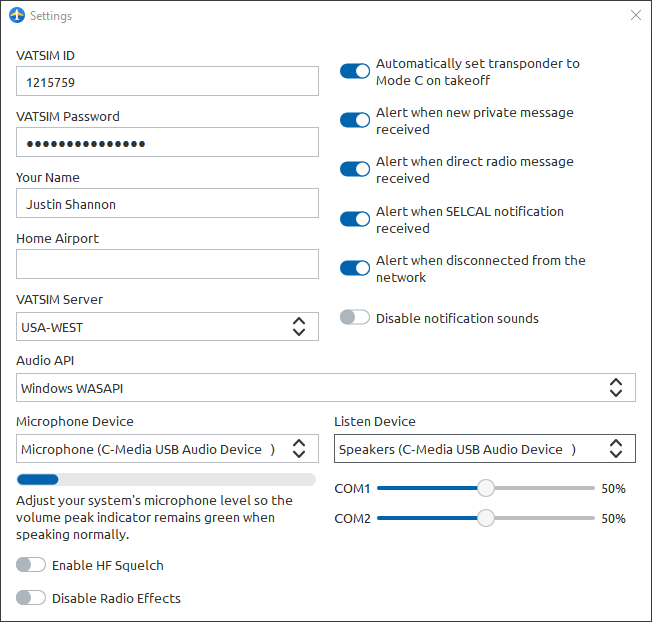
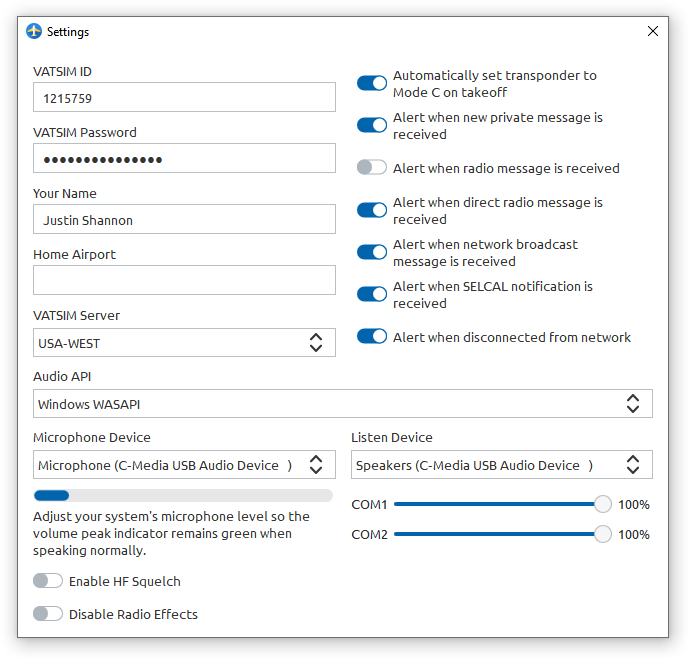
Add client transponder screenshots; Update settings window screenshot

Changed region(s): [[0.0, 0.0, 1.0, 1.0], [0.5215, 0.2444, 0.9202, 0.5498], [0.5215, 0.0916, 0.8896, 0.2138]]

diff --git a/docs/client.md b/docs/client.md
@@ -57,7 +57,11 @@ When flying on VATSIM, you will need to toggle your transponder between Standby 
 
 **Toggle Transponder Mode**: To toggle the transponder mode, you can click the **MODE C** button on the client. The button will change to a green color when Mode C is on. You can also toggle the transponder mode directly in your aircraft's transponder panel in the sim.
 
+![Mode C](media/ModeC.png)
+
 **Squawking Ident**: a controller may ask you to squawk ident. This causes your data tag to appear differently on the controller's radar scope, helping them locate you in their airspace. If you are asked to squawk ident, you can press the **IDENT** button on the client, or in your aircraft's transponder panel in the sim. The **IDENT** button will light up green when xPilot has sent the ident signal to the network. When the ident is finished, the button will return to its normal state.
+
+![Transponder Ident](media/TransponderIdent.png)
 
 ## Communicating with Controllers
 When you connect to VATSIM, all controllers in range will be displayed in the controller list along the left side of the xPilot client window, grouped by facility type. Each entry in the list will have the controller's callsign and frequency. If you hover over the callsign, a popup label will appear displaying the controller's name.
